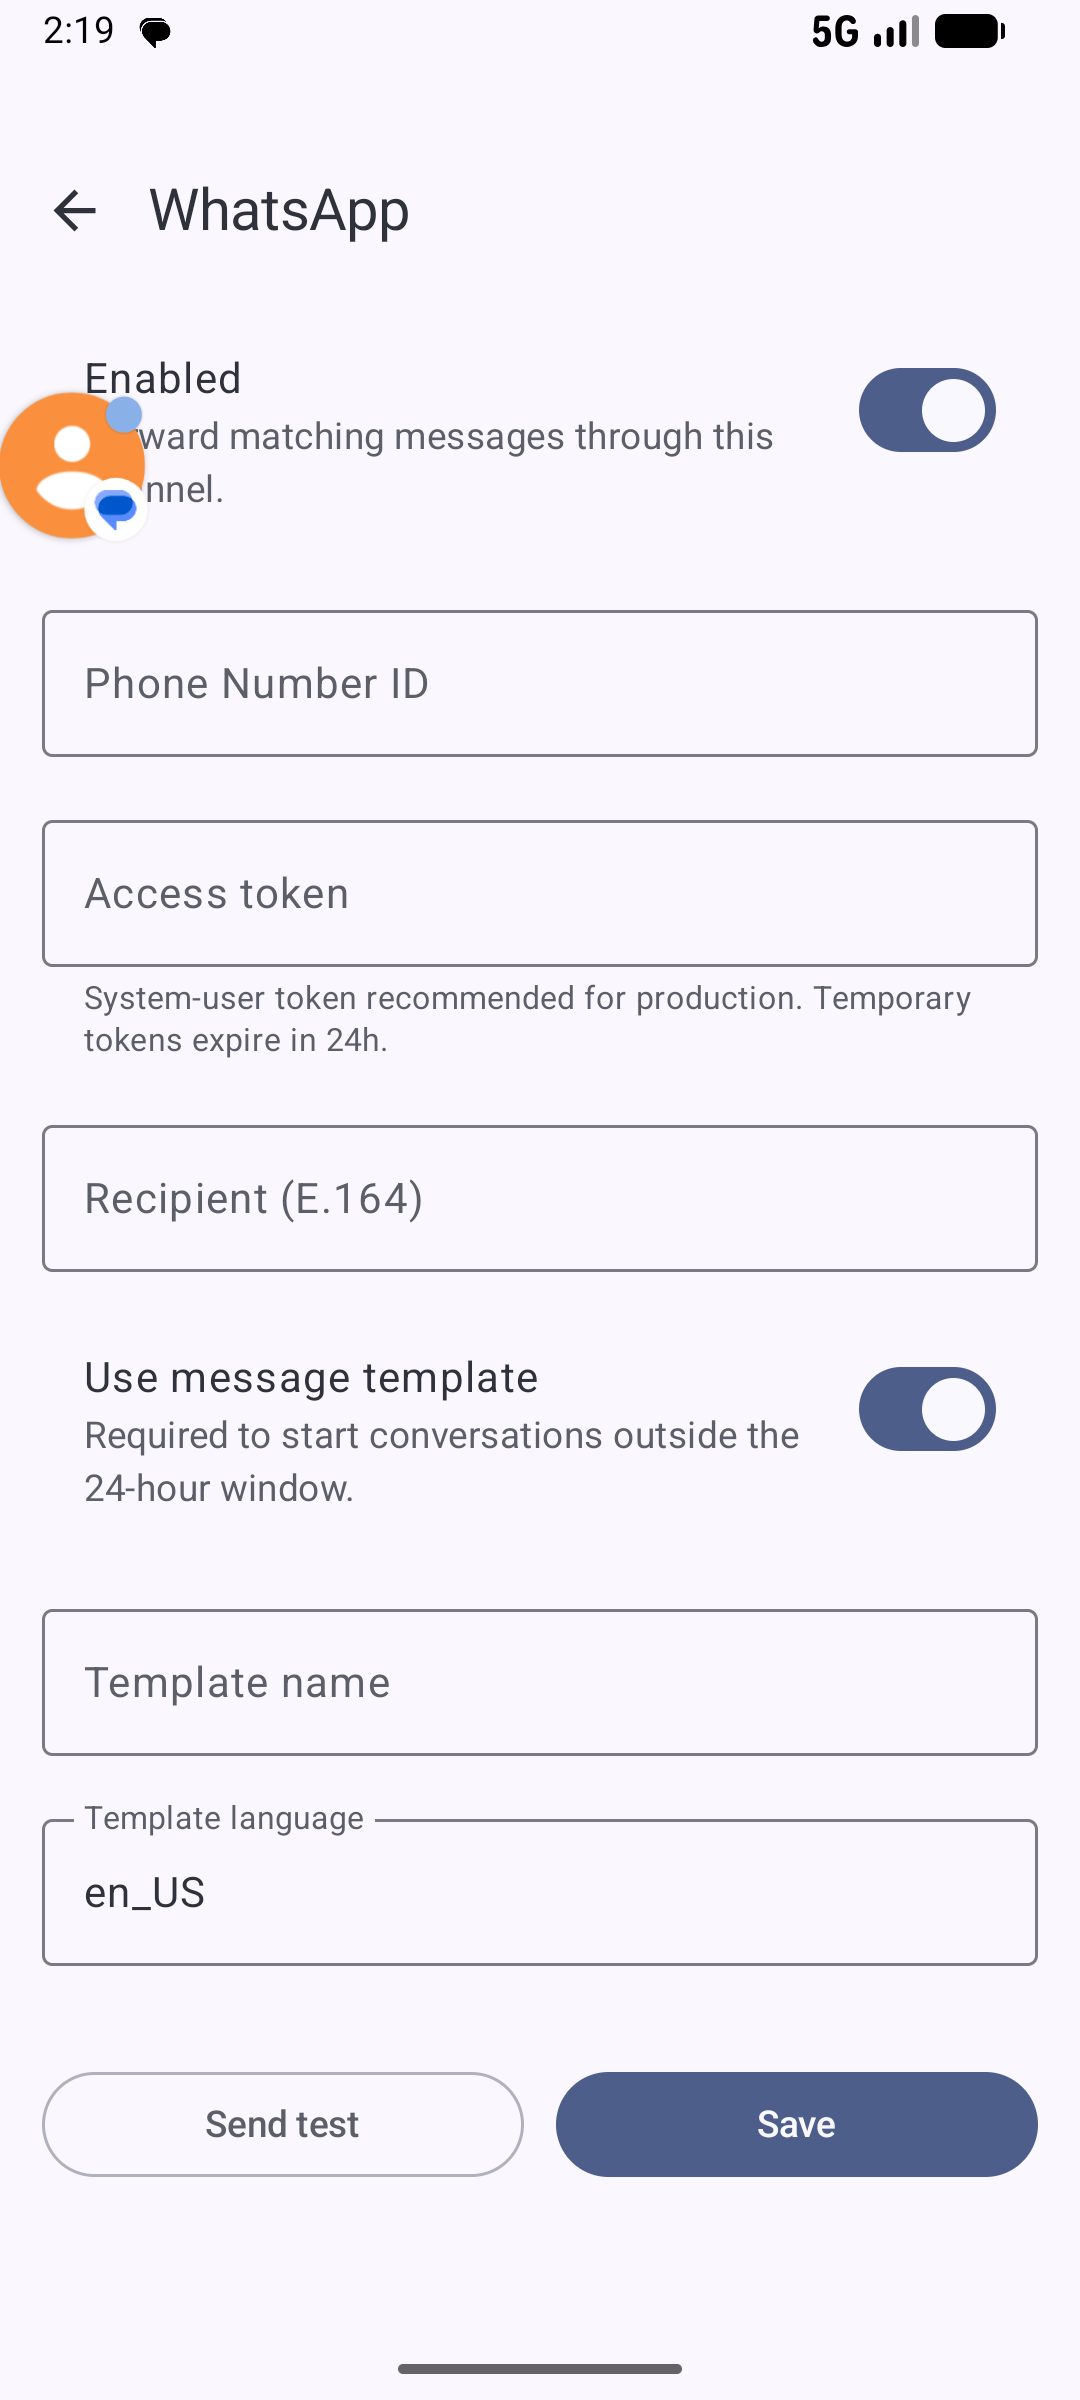
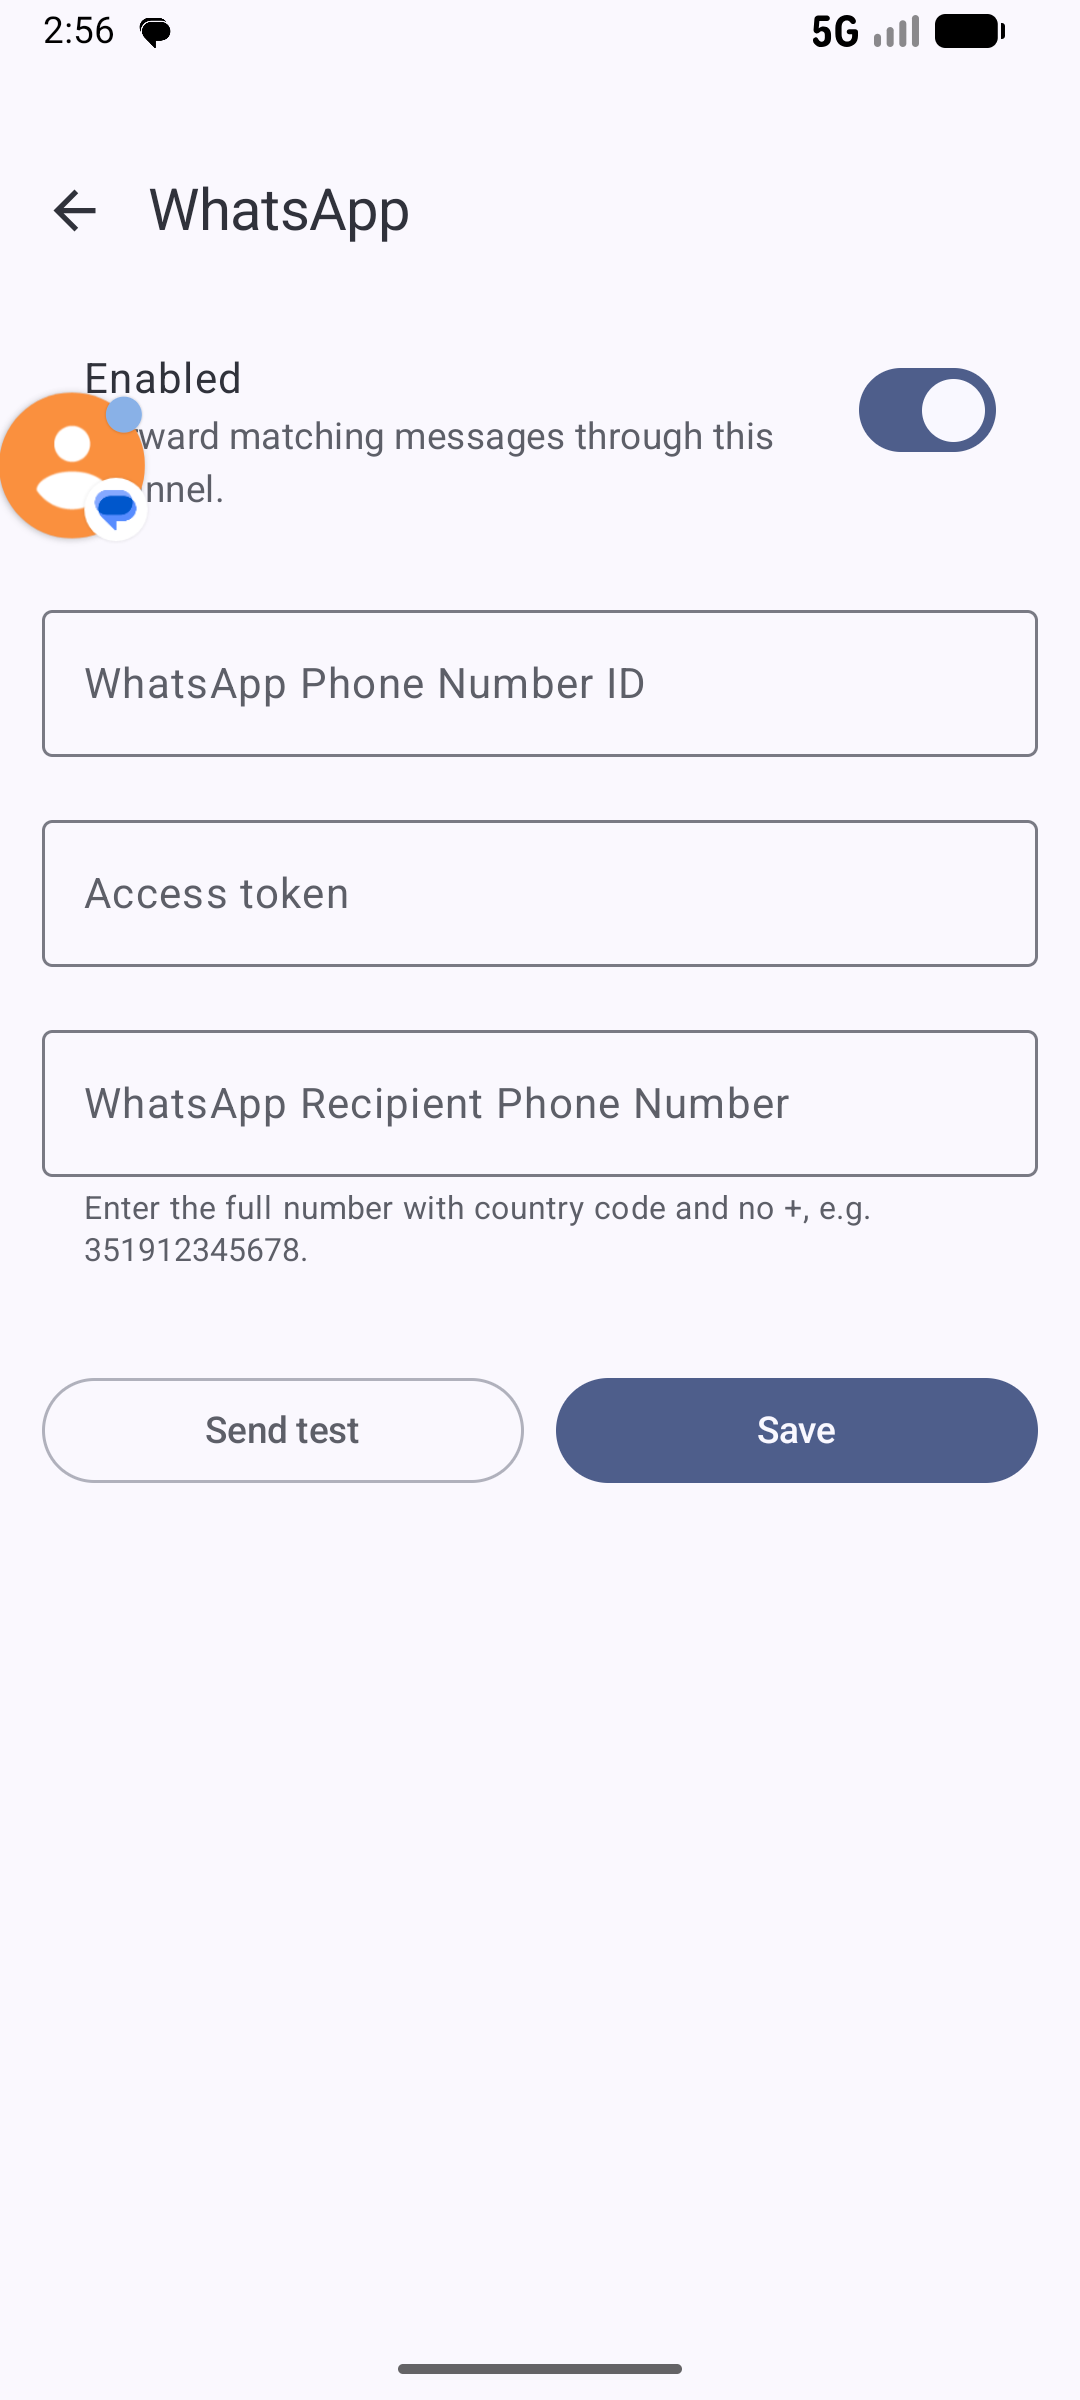
Fix WhatsApp template in code, remove template UI
- WhatsApp now ALWAYS sends a template; the name/language are embedded in WhatsAppCloudChannel (TEMPLATE_NAME/TEMPLATE_LANGUAGE/TEMPLATE_HAS_BODY_PARAM). Currently points at the prebuilt hello_world (no variables), so the SMS body is not sent yet; flipping TEMPLATE_HAS_BODY_PARAM and the name later re-enables body forwarding.

- Drop useTemplate/templateName/templateLanguage from WhatsAppConfig (and the waUseTemplate/waTemplateName/waTemplateLanguage prefs) plus the related UI toggle/fields, ChannelsViewModel save+status+test validation, and the StatusViewModel readiness check.

- Update README and copilot-instructions to describe the fixed-in-code template, and refresh the WhatsApp screenshot (no template controls).

Verified on emulator: WhatsApp form shows only Enabled / Phone Number ID / Access token / Recipient; build + install OK.

diff --git a/app/src/main/java/com/miguelcaldas/mcsmsforwardermultichannel/util/WhatsAppCloudChannel.kt b/app/src/main/java/com/miguelcaldas/mcsmsforwardermultichannel/util/WhatsAppCloudChannel.kt
@@ -18,6 +18,17 @@ object WhatsAppCloudChannel {
     private const val CONNECT_TIMEOUT_MS = 10_000
     private const val READ_TIMEOUT_MS = 20_000
 
+    // The message template is fixed in code, not chosen in the UI. Until the app's own
+    // templates are approved by WhatsApp, this points at the prebuilt "hello_world"
+    // template, which has NO variables — so the forwarded SMS body is not sent yet.
+    //
+    // When an approved template with a {{1}} body parameter is ready, change TEMPLATE_NAME
+    // (and language if needed) and flip TEMPLATE_HAS_BODY_PARAM to true so the SMS text is
+    // bound to the template's first body parameter.
+    private const val TEMPLATE_NAME = "hello_world"
+    private const val TEMPLATE_LANGUAGE = "en_US"
+    private const val TEMPLATE_HAS_BODY_PARAM = false
+
     // Single-thread executor: serialises sends so we never open two simultaneous
     // HTTPS connections for the same incoming SMS, and keeps onReceive return time
     // short on the main thread.
@@ -79,45 +90,32 @@ object WhatsAppCloudChannel {
     private fun buildPayload(config: WhatsAppConfig, body: String): JSONObject {
         // Meta accepts E.164 with or without the leading '+'.
         val recipient = config.recipient.trimStart('+')
-        val root = JSONObject()
-            .put("messaging_product", "whatsapp")
-            .put("recipient_type", "individual")
-            .put("to", recipient)
-        return if (config.useTemplate) {
-            root.put("type", "template")
-                .put(
-                    "template",
+        val template = JSONObject()
+            .put("name", TEMPLATE_NAME)
+            .put("language", JSONObject().put("code", TEMPLATE_LANGUAGE))
+        if (TEMPLATE_HAS_BODY_PARAM) {
+            template.put(
+                "components",
+                JSONArray().put(
                     JSONObject()
-                        .put("name", config.templateName)
+                        .put("type", "body")
                         .put(
-                            "language",
-                            JSONObject().put("code", config.templateLanguage)
-                        )
-                        .put(
-                            "components",
+                            "parameters",
                             JSONArray().put(
                                 JSONObject()
-                                    .put("type", "body")
-                                    .put(
-                                        "parameters",
-                                        JSONArray().put(
-                                            JSONObject()
-                                                .put("type", "text")
-                                                .put("text", body)
-                                        )
-                                    )
+                                    .put("type", "text")
+                                    .put("text", body)
                             )
                         )
                 )
-        } else {
-            root.put("type", "text")
-                .put(
-                    "text",
-                    JSONObject()
-                        .put("preview_url", false)
-                        .put("body", body)
-                )
+            )
         }
+        return JSONObject()
+            .put("messaging_product", "whatsapp")
+            .put("recipient_type", "individual")
+            .put("to", recipient)
+            .put("type", "template")
+            .put("template", template)
     }
 
     private fun summarizeError(raw: String): String {

diff --git a/app/src/main/java/com/miguelcaldas/mcsmsforwardermultichannel/ui/channels/ChannelDetailScreen.kt b/app/src/main/java/com/miguelcaldas/mcsmsforwardermultichannel/ui/channels/ChannelDetailScreen.kt
@@ -123,9 +123,6 @@ private fun WhatsAppForm(viewModel: ChannelsViewModel, onSaved: () -> Unit, toas
     var enabled by rememberSaveable { mutableStateOf(initial.enabled) }
     var phoneNumberId by rememberSaveable { mutableStateOf(initial.phoneNumberId) }
     var recipient by rememberSaveable { mutableStateOf(initial.recipient) }
-    var useTemplate by rememberSaveable { mutableStateOf(initial.useTemplate) }
-    var templateName by rememberSaveable { mutableStateOf(initial.templateName) }
-    var templateLanguage by rememberSaveable { mutableStateOf(initial.templateLanguage) }
     var token by rememberSaveable { mutableStateOf(tokenMask) }
 
     val recipientError = recipient.isNotEmpty() && !PhoneNumberUtils.isWellFormedSmsAddress(recipient)
@@ -165,42 +162,13 @@ private fun WhatsAppForm(viewModel: ChannelsViewModel, onSaved: () -> Unit, toas
         modifier = Modifier.fillMaxWidth(),
     )
 
-    ListItem(
-        headlineContent = { Text("Use message template") },
-        supportingContent = { Text("Required to start conversations outside the 24-hour window.") },
-        trailingContent = {
-            Switch(
-                checked = useTemplate,
-                onCheckedChange = { checked ->
-                    useTemplate = checked
-                },
-            )
-        },
-    )
-    if (useTemplate) {
-        OutlinedTextField(
-            value = templateName,
-            onValueChange = { templateName = it },
-            label = { Text("Template name") },
-            singleLine = true,
-            modifier = Modifier.fillMaxWidth(),
-        )
-        OutlinedTextField(
-            value = templateLanguage,
-            onValueChange = { templateLanguage = it },
-            label = { Text("Template language") },
-            singleLine = true,
-            modifier = Modifier.fillMaxWidth(),
-        )
-    }
-
     FormActions(
         onTest = {
-            viewModel.saveWhatsApp(enabled, phoneNumberId, recipient, useTemplate, templateName, templateLanguage, if (token != tokenMask) token else null)
+            viewModel.saveWhatsApp(enabled, phoneNumberId, recipient, if (token != tokenMask) token else null)
             toast(viewModel.sendWhatsAppTest())
         },
         onSave = {
-            viewModel.saveWhatsApp(enabled, phoneNumberId, recipient, useTemplate, templateName, templateLanguage, if (token != tokenMask) token else null)
+            viewModel.saveWhatsApp(enabled, phoneNumberId, recipient, if (token != tokenMask) token else null)
             onSaved()
         },
     )

diff --git a/app/src/main/java/com/miguelcaldas/mcsmsforwardermultichannel/util/WhatsAppConfig.kt b/app/src/main/java/com/miguelcaldas/mcsmsforwardermultichannel/util/WhatsAppConfig.kt
@@ -3,27 +3,24 @@ package com.miguelcaldas.mcsmsforwardermultichannel.util
 import android.content.Context
 
 /**
- * In-memory snapshot of the WhatsApp Cloud API credentials and template
- * settings persisted in SharedPreferences. Loaded once per send so the
- * receiver / settings UI can pass an immutable value around.
+ * In-memory snapshot of the WhatsApp Cloud API credentials persisted in
+ * SharedPreferences. Loaded once per send so the receiver / settings UI can
+ * pass an immutable value around.
+ *
+ * The message template is fixed in code (see [WhatsAppCloudChannel]); it is
+ * deliberately not part of this config or the settings UI.
  */
 data class WhatsAppConfig(
     val enabled: Boolean,
     val phoneNumberId: String,
     val accessToken: String,
     val recipient: String,
-    val useTemplate: Boolean,
-    val templateName: String,
-    val templateLanguage: String,
 ) {
     val hasCredentials: Boolean
         get() = phoneNumberId.isNotBlank() && accessToken.isNotBlank() && recipient.isNotBlank()
 
-    val isComplete: Boolean
-        get() = hasCredentials && (!useTemplate || (templateName.isNotBlank() && templateLanguage.isNotBlank()))
-
     val isOperational: Boolean
-        get() = enabled && isComplete
+        get() = enabled && hasCredentials
 
     companion object {
         const val PREFS_NAME = "mc_sms_fwd_wa"
@@ -31,11 +28,6 @@ data class WhatsAppConfig(
         const val KEY_ENABLED = "waEnabled"
         const val KEY_PHONE_NUMBER_ID = "waPhoneNumberId"
         const val KEY_RECIPIENT = "waRecipient"
-        const val KEY_USE_TEMPLATE = "waUseTemplate"
-        const val KEY_TEMPLATE_NAME = "waTemplateName"
-        const val KEY_TEMPLATE_LANGUAGE = "waTemplateLanguage"
-
-        const val DEFAULT_TEMPLATE_LANGUAGE = "en_US"
 
         fun load(context: Context): WhatsAppConfig {
             val prefs = context.getSharedPreferences(PREFS_NAME, Context.MODE_PRIVATE)
@@ -46,9 +38,6 @@ data class WhatsAppConfig(
                 // The access token is held encrypted-at-rest, not in the plaintext prefs.
                 accessToken = SecureStore.read(context, SecureStore.KEY_WA_ACCESS_TOKEN),
                 recipient = prefs.getString(KEY_RECIPIENT, "").orEmpty().trim(),
-                useTemplate = prefs.getBoolean(KEY_USE_TEMPLATE, true),
-                templateName = prefs.getString(KEY_TEMPLATE_NAME, "").orEmpty().trim(),
-                templateLanguage = prefs.getString(KEY_TEMPLATE_LANGUAGE, DEFAULT_TEMPLATE_LANGUAGE).orEmpty().ifBlank { DEFAULT_TEMPLATE_LANGUAGE },
             )
         }
     }

diff --git a/app/src/main/java/com/miguelcaldas/mcsmsforwardermultichannel/ui/channels/ChannelsViewModel.kt b/app/src/main/java/com/miguelcaldas/mcsmsforwardermultichannel/ui/channels/ChannelsViewModel.kt
@@ -73,7 +73,6 @@ class ChannelsViewModel(application: Application) : AndroidViewModel(application
             config.phoneNumberId.isBlank() -> "Missing Phone Number ID"
             config.accessToken.isBlank() -> "Missing access token"
             config.recipient.isBlank() -> "Missing recipient"
-            config.useTemplate && (config.templateName.isBlank() || config.templateLanguage.isBlank()) -> "Template not set"
             else -> "Setup incomplete"
         } to ChannelTone.INCOMPLETE
     }
@@ -114,14 +113,11 @@ class ChannelsViewModel(application: Application) : AndroidViewModel(application
         refresh()
     }
 
-    fun saveWhatsApp(enabled: Boolean, phoneNumberId: String, recipient: String, useTemplate: Boolean, templateName: String, templateLanguage: String, newToken: String?) {
+    fun saveWhatsApp(enabled: Boolean, phoneNumberId: String, recipient: String, newToken: String?) {
         prefs.edit {
             putBoolean(WhatsAppConfig.KEY_ENABLED, enabled)
             putString(WhatsAppConfig.KEY_PHONE_NUMBER_ID, phoneNumberId.trim())
             putString(WhatsAppConfig.KEY_RECIPIENT, recipient.trim())
-            putBoolean(WhatsAppConfig.KEY_USE_TEMPLATE, useTemplate)
-            putString(WhatsAppConfig.KEY_TEMPLATE_NAME, templateName.trim())
-            putString(WhatsAppConfig.KEY_TEMPLATE_LANGUAGE, templateLanguage.trim().ifBlank { WhatsAppConfig.DEFAULT_TEMPLATE_LANGUAGE })
         }
         // null means "the mask was left untouched" -> keep the stored token. A non-null
         // value writes it; SecureStore.write removes the secret when the value is blank,
@@ -176,9 +172,6 @@ class ChannelsViewModel(application: Application) : AndroidViewModel(application
         val config = WhatsAppConfig.load(context)
         if (!config.hasCredentials) {
             return "Set Phone Number ID, access token, and recipient first."
-        }
-        if (config.useTemplate && (config.templateName.isBlank() || config.templateLanguage.isBlank())) {
-            return "Template name and language are required when 'Use template' is on."
         }
         val body = "MC SMS\u2192WhatsApp Test \u2014 manual test send at ${System.currentTimeMillis()}"
         LogUtils.addToLog(context, "REAL SEND [WhatsApp] \u2192 To: ${config.recipient} | Msg: $body (manual test)")

diff --git a/app/src/main/java/com/miguelcaldas/mcsmsforwardermultichannel/ui/status/StatusViewModel.kt b/app/src/main/java/com/miguelcaldas/mcsmsforwardermultichannel/ui/status/StatusViewModel.kt
@@ -121,9 +121,6 @@ class StatusViewModel(application: Application) : AndroidViewModel(application) 
             require(waConfig.phoneNumberId.isNotEmpty(), "Add WhatsApp Phone Number ID", "Open", HealthAction.OPEN_CHANNELS)
             require(waConfig.accessToken.isNotEmpty(), "Add WhatsApp access token", "Open", HealthAction.OPEN_CHANNELS)
             require(waConfig.recipient.isNotEmpty(), "Add WhatsApp recipient", "Open", HealthAction.OPEN_CHANNELS)
-            if (waConfig.useTemplate) {
-                require(waConfig.templateName.isNotBlank() && waConfig.templateLanguage.isNotBlank(), "Set WhatsApp template", "Open", HealthAction.OPEN_CHANNELS)
-            }
         }
         if (tgConfig.enabled) {
             require(tgConfig.botToken.isNotEmpty(), "Add Telegram bot token", "Open", HealthAction.OPEN_CHANNELS)

diff --git a/.github/copilot-instructions.md b/.github/copilot-instructions.md
@@ -40,9 +40,13 @@ cannot re-trigger the pipeline, so the guard is scoped to the SMS channel's dest
 stats** — `SmsReceiver` owns the single increment per matched SMS.
 
 **WhatsApp Cloud channel** (`util/WhatsAppCloudChannel.kt`): `object` with a single-thread daemon
-`Executor` named `wa-sender`. `send` builds JSON via `buildPayload` (free-form `text` when
-`useTemplate=false`, otherwise a template with a single body parameter `{{1}}` bound to `body`),
-strips the leading `+` from the recipient, opens `HttpURLConnection` to
+`Executor` named `wa-sender`. The message template is **fixed in code** (constants `TEMPLATE_NAME`,
+`TEMPLATE_LANGUAGE`, `TEMPLATE_HAS_BODY_PARAM`) — it is intentionally not selectable in the config
+or the UI. It currently points at the prebuilt `hello_world` template, which has no variables, so
+`TEMPLATE_HAS_BODY_PARAM=false` and the forwarded SMS body is **not** sent yet; when an approved
+template with a `{{1}}` body parameter is ready, change the constants to include the body. `send`
+builds the template JSON via `buildPayload`, strips the leading `+` from the recipient, opens
+`HttpURLConnection` to
 `https://graph.facebook.com/v21.0/{phoneNumberId}/messages`, writes the body with
 `setFixedLengthStreamingMode`, sets `Authorization: Bearer …`, 10 s connect / 20 s read timeout,
 then logs `SEND OK [WhatsApp] → {recipient} (HTTP {code})` or the matching `SEND FAILED` with the
@@ -74,8 +78,8 @@ database. Lists (senders, regexes) are newline-delimited strings. Logs use a
 `timestamp\x1Fmessage` format with auto-pruning (35 days / 2000 entries); `LogUtils.addToLog`
 collapses CR/LF/`\x1F` runs in the message to a space so multi-line bodies can't corrupt the
 line-oriented format. WhatsApp credentials live under keys defined in `WhatsAppConfig`:
-`waPhoneNumberId`, `waRecipient`, `waUseTemplate` (default true), `waTemplateName`,
-`waTemplateLanguage` (default `en_US`), `waEnabled` (default true). Telegram: `tgEnabled` (default
+`waPhoneNumberId`, `waRecipient`, `waEnabled` (default true). The template is fixed in code (see
+the WhatsApp channel above), so there are no template prefs. Telegram: `tgEnabled` (default
 false), `tgChatId` (`TelegramConfig`). SMS: `smsEnabled` (default false) and
 `forwardTo` — the destination number (`SmsConfig`). **Secrets (the WhatsApp access token `waAccessToken` and
 the Telegram bot token `tgBotToken`) are NOT in this file** — they live encrypted-at-rest in a

diff --git a/README.md b/README.md
@@ -24,7 +24,7 @@ The UI is a single-activity Jetpack Compose app with a Material 3 bottom-navigat
 
 | Channel detail (WhatsApp) | Filters |
 | --- | --- |
-| ![WhatsApp detail form: enable switch, Phone Number ID, write-only Access token, recipient, template toggle and fields, Send test / Save](docs/screenshots/channel-whatsapp.png) | ![Filters screen: allowed senders as removable chips, regex rules as editable rows, and a forwarding template](docs/screenshots/filters.png) |
+| ![WhatsApp detail form: enable switch, WhatsApp Phone Number ID, write-only Access token, recipient with a country-code hint, Send test / Save](docs/screenshots/channel-whatsapp.png) | ![Filters screen: allowed senders as removable chips, regex rules as editable rows, and a forwarding template](docs/screenshots/filters.png) |
 
 ## What it does
 
@@ -36,7 +36,7 @@ The UI is a single-activity Jetpack Compose app with a Material 3 bottom-navigat
 - Normalizes the body (NFD + strip combining marks + lowercase) and matches it against **any** of the configured regex patterns.
 - Optionally re-formats the outgoing text with a template (`%s` = source, `%t` = time, `%m` = original message).
 - Sends the result through **every operational channel** (toggle on AND credentials present):
-  - **WhatsApp** — `POST https://graph.facebook.com/v21.0/{PHONE_NUMBER_ID}/messages` with a `Bearer` token, as either a free-form `text` message (inside the customer 24‑hour window) or an **approved template** with the SMS body bound to a single body parameter.
+  - **WhatsApp** — `POST https://graph.facebook.com/v21.0/{PHONE_NUMBER_ID}/messages` with a `Bearer` token, as an **approved template** message. The template name and language are fixed in code (currently the prebuilt `hello_world`, which has no variables, so the SMS body isn't sent yet); swap in an approved template with a body parameter to forward the actual text.
   - **Telegram** — `POST https://api.telegram.org/bot{TOKEN}/sendMessage` with `chat_id` + `text` (web previews disabled).
   - **SMS** — `SmsManager.sendMultipartTextMessage` to the configured destination number; per-segment modem results are surfaced in the activity log.
 
@@ -75,7 +75,7 @@ The quickest and cheapest path is to use the **test phone number** that Meta pro
    2. *Users → System users → Add* — give it a name (e.g. `sms-forwarder`) and role **Admin**.
    3. With the new system user selected, click **Add assets** → **Apps** → pick your app → toggle **Full control**. Repeat **Add assets** → **WhatsApp accounts** → pick your WABA → toggle **Full control**.
    4. Click **Generate new token** → pick your app → **Token expiration: Never** → select scopes `whatsapp_business_messaging` and `whatsapp_business_management` → **Generate token** → copy it once (you cannot view it again).
-6. In this app, open the **Channels** tab and tap **WhatsApp**: paste **Phone Number ID**, **Access token**, and **Recipient** (E.164, e.g. `+3519...`). Leave **Use message template** ON and use the prebuilt `hello_world` / `en_US` for the very first ping, then either switch templates or turn the toggle off and rely on the 24-hour service window.
+6. In this app, open the **Channels** tab and tap **WhatsApp**: paste **WhatsApp Phone Number ID**, **Access token**, and **WhatsApp Recipient Phone Number** (full number with country code, no `+`, e.g. `[phone redacted]`). The message template is fixed in code — it ships pointing at the prebuilt `hello_world` template, so **Send test** delivers a template message with no app content. When your own template is approved by WhatsApp, change the constants in `WhatsAppCloudChannel` to send the SMS body.
 
 The **Access token** field is write-only: once saved it loads blank with a saved hint — type a new value to replace it, or leave it blank to keep the stored token.
 
@@ -135,11 +135,12 @@ Filters are shared by every channel and live on the **Channels** tab under **Sen
 **WhatsApp Cloud API** (Channels tab → WhatsApp)
 
 - **Enabled** — master toggle for the channel.
-- **Phone Number ID** — numeric, from Meta.
+- **WhatsApp Phone Number ID** — numeric, from Meta.
 - **Access token** — Bearer token; stored encrypted at rest and write-only in the UI (see warning above).
-- **Recipient** — destination WhatsApp number in E.164 form (`+35191XXXXXXX`).
-- **Use message template** — on by default. When on, fill **Template name** and **Template language** (e.g. `en_US`). When off, messages are sent as free-form `text` (only works inside the 24-hour customer service window).
+- **WhatsApp Recipient Phone Number** — destination number with country code and no `+` (e.g. `[phone redacted]`).
 - **Send test** button — POSTs a synthetic message to your recipient using your current WhatsApp settings.
+
+The message template is **fixed in code** (`WhatsAppCloudChannel`), not chosen in the UI. It currently uses the prebuilt `hello_world` template (no variables), so forwarded SMS content isn't sent yet; swap the constants for an approved template with a body parameter when ready.
 
 **Telegram Bot API** (Channels tab → Telegram)
 